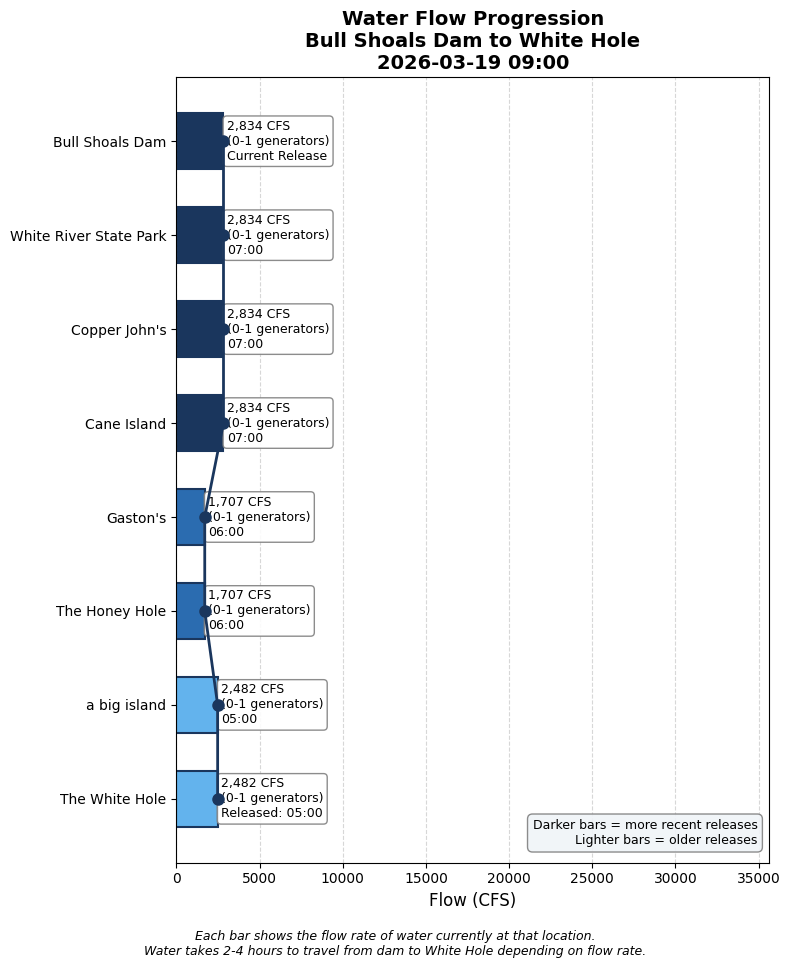
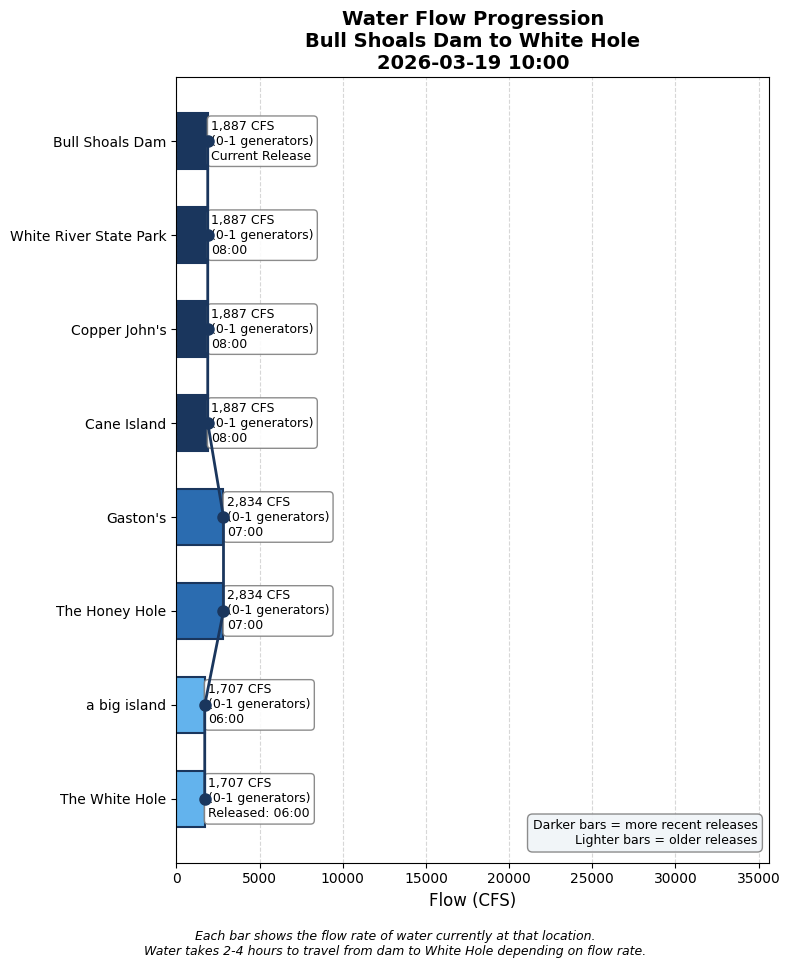
Update water conditions 2026-03-19 10:00

Changed region(s): [[0.243, 0.124, 0.4253, 0.8678], [0.638, 0.062, 0.6684, 0.093]]

diff --git a/white_hole_conditions.html b/white_hole_conditions.html
@@ -3,7 +3,7 @@
 <head>
     <meta charset="UTF-8">
     <meta name="viewport" content="width=device-width, initial-scale=1.0">
-    <title>White Hole Conditions - 2026-03-19 09:00</title>
+    <title>White Hole Conditions - 2026-03-19 10:00</title>
     <style>
         body {
             font-family: -apple-system, BlinkMacSystemFont, 'Segoe UI', Roboto, sans-serif;
@@ -23,7 +23,7 @@
             margin-bottom: 20px;
         }
         .headline-banner {
-            background-color: #2b6cb0;
+            background-color: #319795;
             color: white;
             border-radius: 12px;
             padding: 25px;
@@ -73,12 +73,12 @@
             font-weight: 500;
         }
         .pill.wading {
-            background-color: #fef3c7;
-            color: #92400e;
+            background-color: #d1fae5;
+            color: #065f46;
         }
         .pill.boating {
-            background-color: #dbeafe;
-            color: #1e40af;
+            background-color: #fef3c7;
+            color: #92400e;
         }
         .timeline-box {
             background-color: white;
@@ -148,22 +148,22 @@
 </head>
 <body>
     <h1>White Hole Current Conditions</h1>
-    <p class="subtitle">Thursday, March 19, 2026 at 09:00 AM</p>
+    <p class="subtitle">Thursday, March 19, 2026 at 10:00 AM</p>
 
     <!-- HEADLINE BANNER -->
     <div class="headline-banner">
-        <div class="main-status">⚠ MARGINAL WADING — Use caution</div>
+        <div class="main-status">✅ GOOD WADING — Conditions favorable</div>
         <div class="forecast-status">➡ STABLE CONDITIONS expected</div>
     </div>
 
     <!-- CURRENT CONDITIONS -->
     <div class="current-conditions">
         <h3>Current Conditions at White Hole</h3>
-        <div class="flow-display">2,482 CFS</div>
+        <div class="flow-display">1,707 CFS</div>
         <div class="generator-display">Equivalent to 0-1 generators</div>
         <div class="condition-pills">
-            <span class="pill wading">Still Wadable</span>
-            <span class="pill boating">Ideal Boating</span>
+            <span class="pill wading">Excellent Wading</span>
+            <span class="pill boating">Low For Boating</span>
         </div>
         <a href="https://www.youtube.com/channel/UCAXhb9nFnsfu367AthDrgIA/live" target="_blank" class="webcam-link" style="margin-top: 15px;">
             📹 View Live Webcam
@@ -186,26 +186,26 @@
                 <tbody>
                     
                 <tr style="background-color: #ebf8ff;">
-                    <td style="padding: 10px; font-weight: bold;">07:00</td>
-                    <td style="padding: 10px;">2,834 CFS<br><small style="color: #666;">(0-1 generators)</small></td>
-                    <td style="padding: 10px;"><span style="color: #2b6cb0;">→ Arrives ~10:44 (in 103 min)</span></td>
+                    <td style="padding: 10px; font-weight: bold;">08:00</td>
+                    <td style="padding: 10px;">1,887 CFS<br><small style="color: #666;">(0-1 generators)</small></td>
+                    <td style="padding: 10px;"><span style="color: #2b6cb0;">→ Arrives ~11:44 (in 103 min)</span></td>
                 </tr>
             
                 <tr style="background-color: #ebf8ff;">
-                    <td style="padding: 10px; font-weight: bold;">06:00</td>
-                    <td style="padding: 10px;">1,707 CFS<br><small style="color: #666;">(0-1 generators)</small></td>
-                    <td style="padding: 10px;"><span style="color: #2b6cb0;">→ Arrives ~09:44 (in 43 min)</span></td>
+                    <td style="padding: 10px; font-weight: bold;">07:00</td>
+                    <td style="padding: 10px;">2,834 CFS<br><small style="color: #666;">(0-1 generators)</small></td>
+                    <td style="padding: 10px;"><span style="color: #2b6cb0;">→ Arrives ~10:44 (in 43 min)</span></td>
                 </tr>
             
                 <tr style="background-color: #e6fffa;">
-                    <td style="padding: 10px; font-weight: bold;">05:00</td>
-                    <td style="padding: 10px;">2,482 CFS<br><small style="color: #666;">(0-1 generators)</small></td>
+                    <td style="padding: 10px; font-weight: bold;">06:00</td>
+                    <td style="padding: 10px;">1,707 CFS<br><small style="color: #666;">(0-1 generators)</small></td>
                     <td style="padding: 10px;"><span style="color: #319795; font-weight: bold;">← AT WHITE HOLE NOW</span></td>
                 </tr>
             
                 <tr style="">
-                    <td style="padding: 10px; font-weight: bold;">02:00</td>
-                    <td style="padding: 10px;">2,467 CFS<br><small style="color: #666;">(0-1 generators)</small></td>
+                    <td style="padding: 10px; font-weight: bold;">03:00</td>
+                    <td style="padding: 10px;">2,438 CFS<br><small style="color: #666;">(0-1 generators)</small></td>
                     <td style="padding: 10px;"><span style="color: #718096;">passed</span></td>
                 </tr>
             
@@ -230,9 +230,9 @@
         </summary>
         <div style="padding: 15px;">
             <ul>
-                <li>Latest dam reading: 2,834 CFS at 2026-03-19 07:00</li>
+                <li>Latest dam reading: 1,887 CFS at 2026-03-19 08:00</li>
                 <li>Travel time to White Hole: 3.7 hours at current flow</li>
-                <li>White Hole conditions based on dam reading from: 2026-03-19 05:00</li>
+                <li>White Hole conditions based on dam reading from: 2026-03-19 06:00</li>
             </ul>
         </div>
     </details>
@@ -254,6 +254,13 @@
                     </thead>
                     <tbody>
                         
+                <tr style="border-bottom: 1px solid #eee;">
+                    <td style="padding: 8px;">2026-03-19 08:00</td>
+                    <td style="padding: 8px; text-align: right;">1887</td>
+                    <td style="padding: 8px; text-align: right;">0.6</td>
+                    <td style="padding: 8px; text-align: right;">3.7</td>
+                </tr>
+                
                 <tr style="border-bottom: 1px solid #eee;">
                     <td style="padding: 8px;">2026-03-19 07:00</td>
                     <td style="padding: 8px; text-align: right;">2834</td>
@@ -310,13 +317,6 @@
                     <td style="padding: 8px; text-align: right;">3.7</td>
                 </tr>
                 
-                <tr style="border-bottom: 1px solid #eee;">
-                    <td style="padding: 8px;">2026-03-18 22:00</td>
-                    <td style="padding: 8px; text-align: right;">2498</td>
-                    <td style="padding: 8px; text-align: right;">0.8</td>
-                    <td style="padding: 8px; text-align: right;">3.7</td>
-                </tr>
-                
                     </tbody>
                 </table>
             </div>
@@ -324,7 +324,7 @@
         
 
     <div class="timestamp">
-        Data retrieved and processed on 2026-03-19 09:00:08
+        Data retrieved and processed on 2026-03-19 10:00:07
     </div>
 </body>
 </html>
